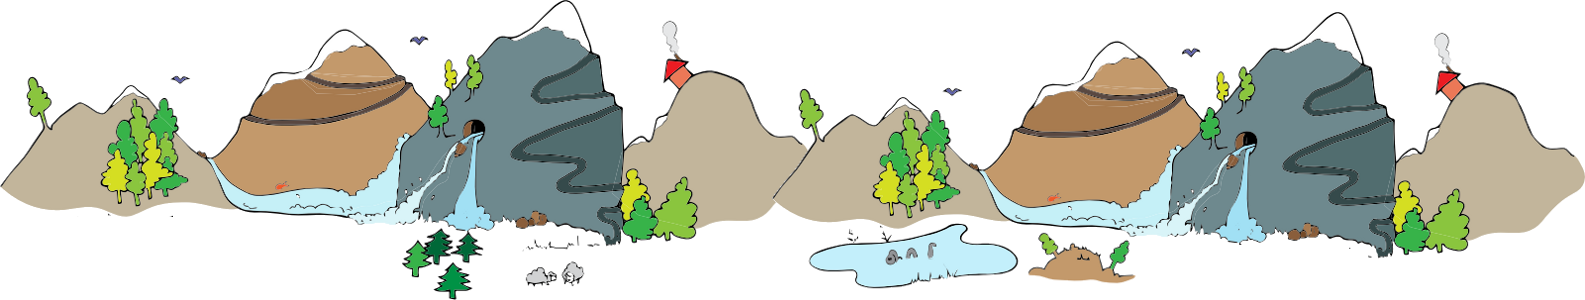
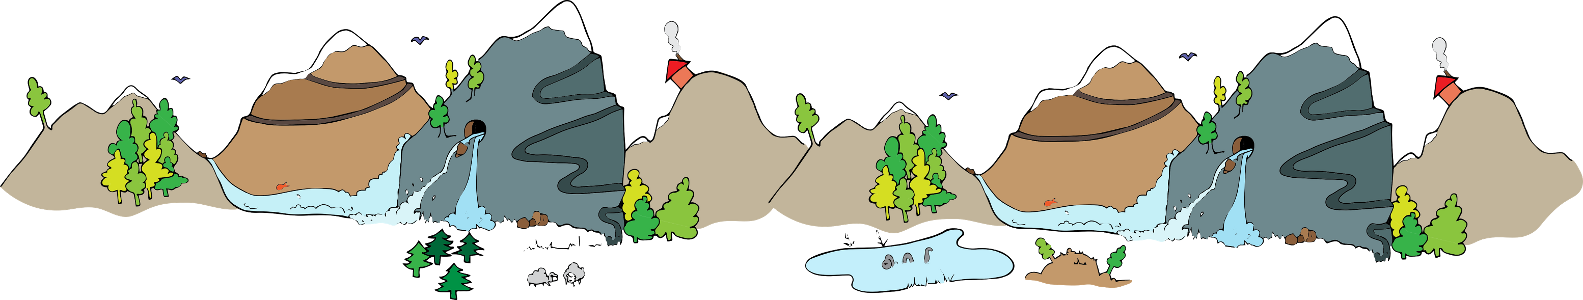
udpates mountains

diff --git a/public/css/style.css b/public/css/style.css
@@ -633,7 +633,7 @@ button.red:hover {
 }
 @-webkit-keyframes moveMountains {
     from { background-position: 0 0; }
-    to { background-position: 100% 0; }
+    to { background-position: 150% 0; }
 }
 @-webkit-keyframes bounce {
      from {-webkit-transform: translateY(0px);}
